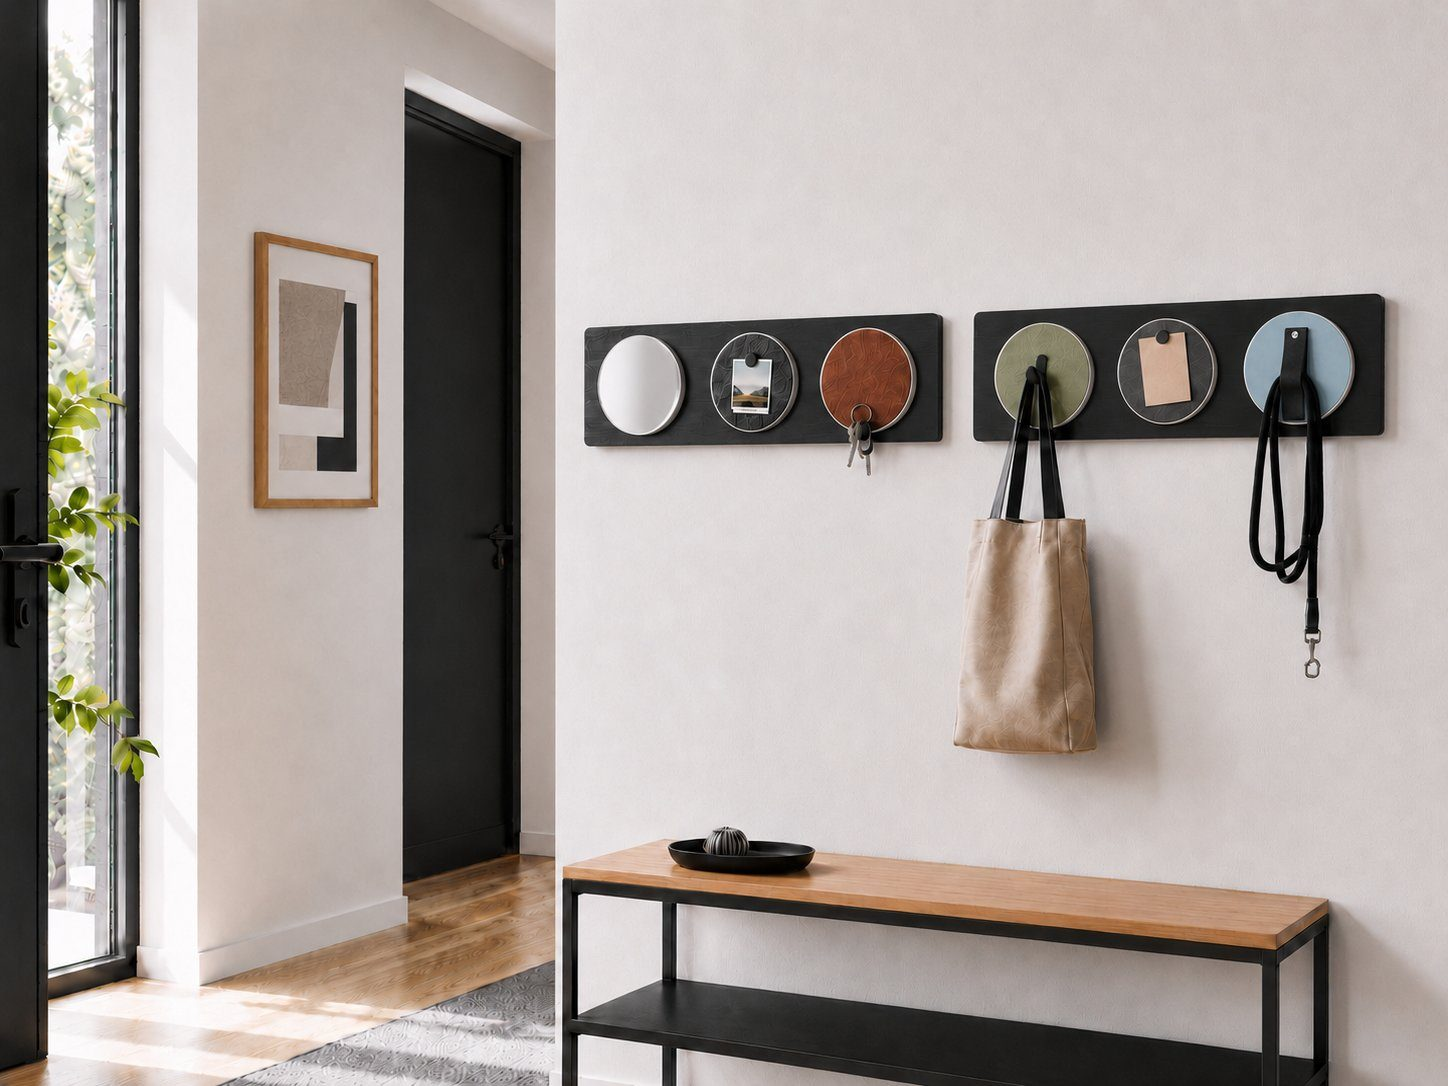
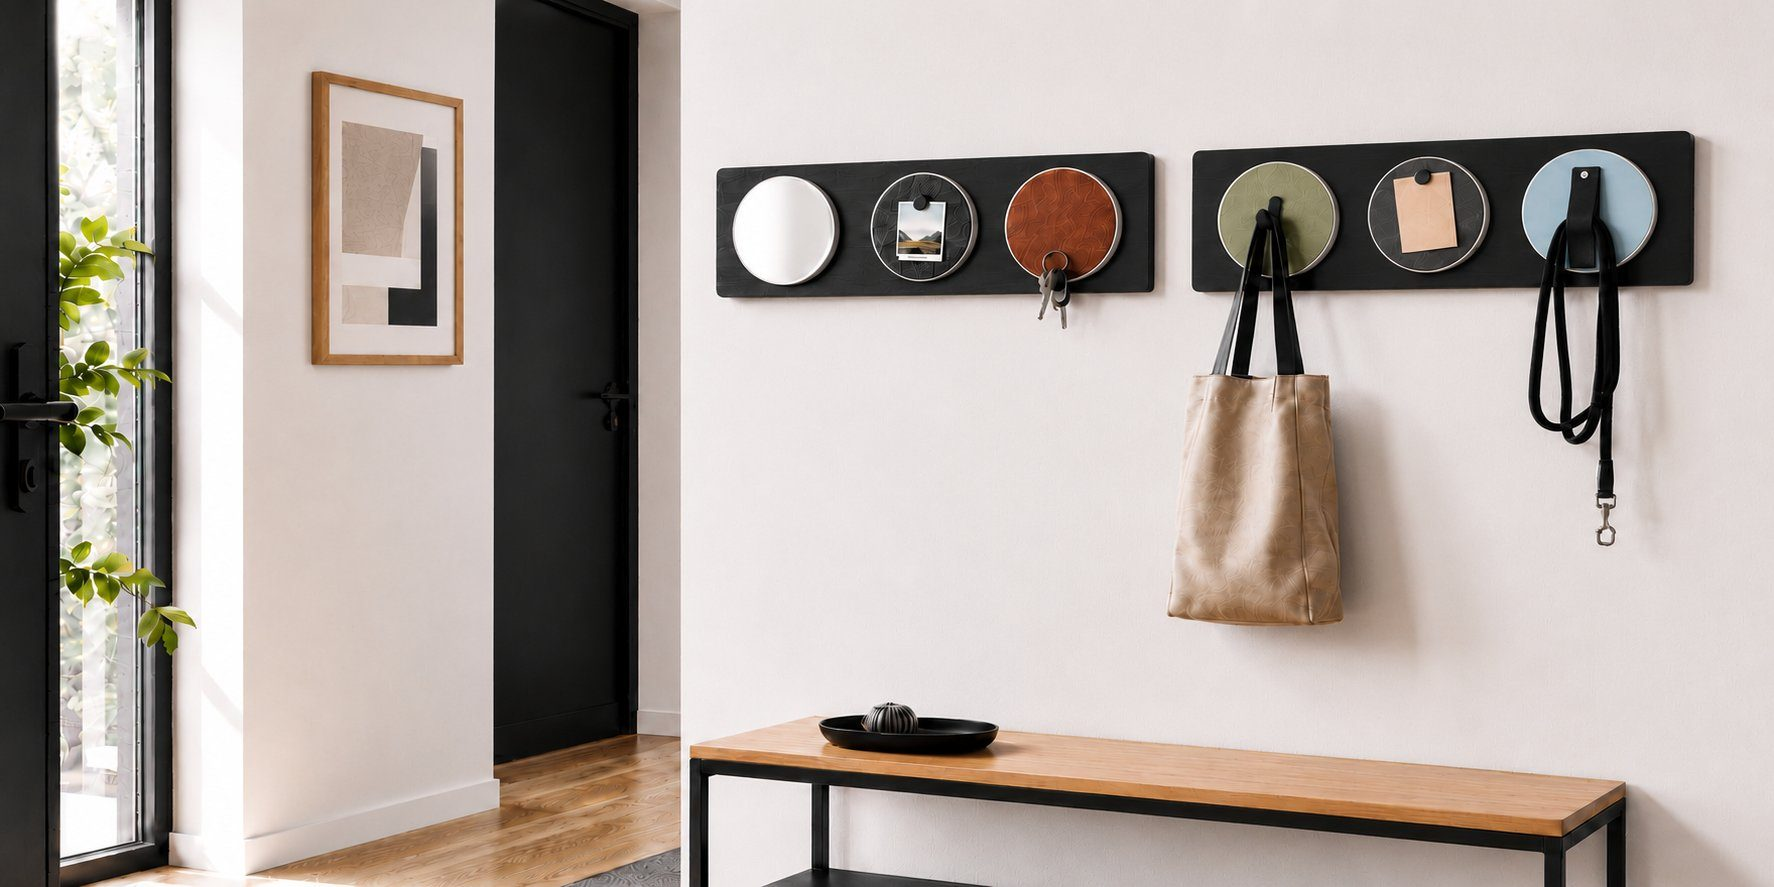
update

diff --git a/src/App.jsx b/src/App.jsx
@@ -214,8 +214,8 @@ export default function App() {
 
       {/* HERO */}
       <section style={{ paddingTop: 70 }}>
-        <div style={{ position: 'relative', width: '100%', height: 'clamp(600px, 85vh, 1000px)', overflow: 'hidden' }}>
-          <img src="/images/hero.jpg" alt="APPOLOC Wandboard im Flur" style={{ width: '100%', height: '100%', objectFit: 'cover', objectPosition: 'center top' }} />
+        <div style={{ position: 'relative', width: '100%', height: 'clamp(450px, 50vw, 750px)', overflow: 'hidden' }}>
+          <img src="/images/hero.jpg" alt="APPOLOC Wandboard im Flur" style={{ width: '100%', height: '100%', objectFit: 'cover', objectPosition: 'center center' }} />
           <div style={{
             position: 'absolute', bottom: 0, left: 0, right: 0,
             background: 'linear-gradient(transparent, rgba(26,23,20,0.85))',